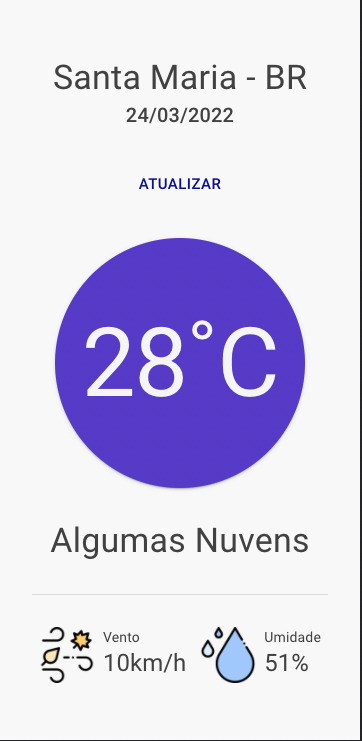
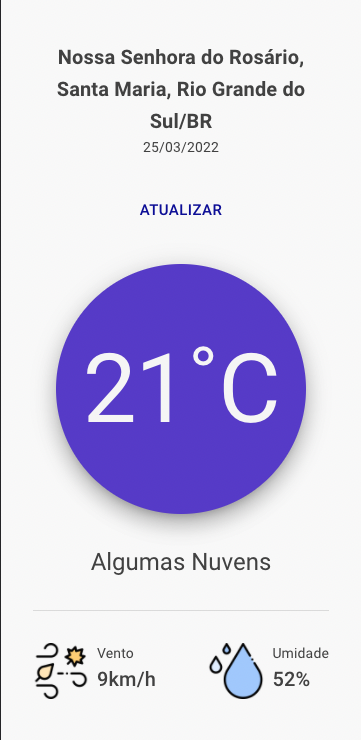
feat: update method getting data

diff --git a/src/pages/Home/Home.test.jsx b/src/pages/Home/Home.test.jsx
@@ -1,19 +1,19 @@
 import {QueryClient, QueryClientProvider} from 'react-query';
 
 import {screen, render, waitFor} from '@testing-library/react';
-import {useFetchWeather} from 'shared/hooks';
+import {useFetchData} from 'shared/hooks';
 import {convertFahrenheitToCelsius} from 'shared/utils/convertFahrenheitToCelsius';
 import {convertMilesToKilometers} from 'shared/utils/convertMilesToKilometers';
 
 import Home from '.';
 
 jest.mock('shared/hooks', () => ({
-  useFetchWeather: jest.fn(),
+  useFetchData: jest.fn(),
 }));
 
 describe('Home', () => {
   beforeEach(() => {
-    useFetchWeather.mockImplementation(() => ({}));
+    useFetchData.mockImplementation(() => ({}));
   });
 
   describe('while loading', () => {
@@ -35,7 +35,7 @@ describe('Home', () => {
 
       global.navigator.geolocation = mockGeolocation;
 
-      useFetchWeather.mockImplementation(() => ({
+      useFetchData.mockImplementation(() => ({
         isLoading: true,
       }));
 
@@ -74,7 +74,7 @@ describe('Home', () => {
 
       global.navigator.geolocation = mockGeolocation;
 
-      useFetchWeather.mockImplementation(() => ({
+      useFetchData.mockImplementation(() => ({
         isLoading: false,
         isError: true,
         error: {message: 'Erro ao carregar dados da API'},
@@ -113,23 +113,29 @@ describe('Home', () => {
 
       global.navigator.geolocation = mockGeolocation;
 
-      useFetchWeather.mockImplementation(() => ({
+      useFetchData.mockImplementation(() => ({
         isLoading: false,
         data: {
-          weather: [
-            {
-              description: 'algumas nuvens',
+          address: {
+            locality: 'Nossa Senhora do Rosário, Santa Maria',
+            principalSubdivision: 'Rio Grande do Sul',
+          },
+          weather: {
+            weather: [
+              {
+                description: 'algumas nuvens',
+              },
+            ],
+            main: {
+              temp: 292.84,
+              humidity: 52,
             },
-          ],
-          main: {
-            temp: 292.84,
-            humidity: 52,
+            wind: {speed: 6.69},
+            sys: {
+              country: 'BR',
+            },
+            name: 'Santa Maria',
           },
-          wind: {speed: 6.69},
-          sys: {
-            country: 'BR',
-          },
-          name: 'Santa Maria',
         },
       }));
 
@@ -140,7 +146,9 @@ describe('Home', () => {
       );
 
       await waitFor(() => {
-        expect(container.innerHTML).toMatch('Santa Maria - BR');
+        expect(container.innerHTML).toMatch(
+          'Nossa Senhora do Rosário, Santa Maria, Rio Grande do Sul/BR',
+        );
         expect(container.innerHTML).toMatch('algumas nuvens');
         expect(container.innerHTML).toMatch(convertMilesToKilometers(6.69));
         expect(container.innerHTML).toMatch(convertFahrenheitToCelsius(292.84));

diff --git a/src/pages/Home/index.tsx b/src/pages/Home/index.tsx
@@ -3,7 +3,7 @@ import {useQueryClient} from 'react-query';
 
 import {Button, Divider, Fade, Grid, Stack} from '@mui/material';
 import {ErrorPage, LinearDeterminate} from 'shared/components';
-import {useFetchWeather} from 'shared/hooks';
+import {useFetchData} from 'shared/hooks';
 
 import {
   DegreesComponent,
@@ -25,7 +25,7 @@ const Home: React.FC = () => {
     }
   }, [position.lat, position.lon]);
 
-  const {data, isLoading, isError, error} = useFetchWeather(
+  const {data, isLoading, isError, error} = useFetchData(
     position.lat,
     position.lon,
   );
@@ -45,7 +45,11 @@ const Home: React.FC = () => {
   return (
     <Fade in={!isLoading}>
       <Grid container spacing={4}>
-        <TitleComponent name={data?.name} country={data?.sys.country} />
+        <TitleComponent
+          locality={data?.address?.locality}
+          state={data?.address?.principalSubdivision}
+          country={data?.weather?.sys?.country}
+        />
 
         <Grid item xs={12}>
           <Stack justifyContent="center" alignItems="center">
@@ -58,17 +62,19 @@ const Home: React.FC = () => {
           </Stack>
         </Grid>
 
-        <DegreesComponent temp={data?.main.temp} />
+        <DegreesComponent temp={data?.weather?.main.temp} />
 
-        <DescriptionComponent description={data?.weather[0].description} />
+        <DescriptionComponent
+          description={data?.weather?.weather[0].description}
+        />
 
         <Grid item xs={12}>
           <Divider />
         </Grid>
 
         <InfoComponent
-          speed={data?.wind.speed}
-          humidity={data?.main.humidity}
+          speed={data?.weather?.wind.speed}
+          humidity={data?.weather?.main.humidity}
         />
       </Grid>
     </Fade>

diff --git a/src/pages/Home/components/InfoComponent/index.tsx b/src/pages/Home/components/InfoComponent/index.tsx
@@ -1,6 +1,6 @@
 import React from 'react';
 
-import {Grid, Box, Stack, Typography} from '@mui/material';
+import {Grid, Box, Stack, Typography, useMediaQuery} from '@mui/material';
 import {outono, solta} from 'shared/assets';
 import {convertMilesToKilometers} from 'shared/utils/convertMilesToKilometers';
 
@@ -10,14 +10,18 @@ interface IProps {
 }
 
 export const InfoComponent: React.FC<IProps> = ({speed, humidity}) => {
+  const matches = useMediaQuery('(min-width:600px)');
+
   return (
     <Grid item xs={12}>
-      <Box display="flex" justifyContent="space-around">
+      <Box
+        display="flex"
+        justifyContent={matches ? 'space-around' : 'space-between'}>
         <Box display="flex" gap={1}>
           <img src={outono} alt="" width="56px" />
           <Stack>
             <Typography variant="body2">Vento</Typography>
-            <Typography variant="h5">
+            <Typography variant={matches ? 'h4' : 'h6'}>
               {convertMilesToKilometers(speed)}km/h
             </Typography>
           </Stack>
@@ -27,7 +31,7 @@ export const InfoComponent: React.FC<IProps> = ({speed, humidity}) => {
           <img src={solta} alt="" width="56px" />
           <Stack>
             <Typography variant="body2">Umidade</Typography>
-            <Typography variant="h5">{humidity}%</Typography>
+            <Typography variant={matches ? 'h4' : 'h6'}>{humidity}%</Typography>
           </Stack>
         </Box>
       </Box>

diff --git a/src/pages/Home/components/TitleComponent/index.tsx b/src/pages/Home/components/TitleComponent/index.tsx
@@ -1,19 +1,30 @@
 import React from 'react';
 
-import {Grid, Typography} from '@mui/material';
+import {Grid, Typography, useMediaQuery} from '@mui/material';
 
 interface IProps {
-  name?: string;
+  locality?: string;
+  state?: string;
   country?: string;
 }
 
-export const TitleComponent: React.FC<IProps> = ({name, country}) => {
+export const TitleComponent: React.FC<IProps> = ({
+  locality,
+  state,
+  country,
+}) => {
+  const matches = useMediaQuery('(min-width:600px)');
+
   return (
     <Grid item xs={12}>
-      <Typography variant="h4" align="center">
-        {name} - {country}
+      <Typography
+        variant={matches ? 'h4' : 'h6'}
+        fontWeight={600}
+        align="center">
+        {locality}, {state}/{country}
       </Typography>
-      <Typography variant="h6" align="center">
+
+      <Typography variant={matches ? 'h6' : 'body2'} align="center">
         {new Date().toLocaleDateString()}
       </Typography>
     </Grid>

diff --git a/src/shared/services/api/addressService.ts b/src/shared/services/api/addressService.ts
@@ -1,0 +1,27 @@
+import {apiBigDataCloud} from '../axiosConfig';
+
+export interface IAddress {
+  locality: string;
+  principalSubdivision: string;
+}
+
+const getAddress = async (
+  lat: number,
+  lon: number,
+): Promise<IAddress | null> => {
+  try {
+    if (lat && lon) {
+      const {data: response} = await apiBigDataCloud.get<IAddress>(
+        `reverse-geocode-client?latitude=${lat}&longitude=${lon}&localityLanguage=pt_br`,
+      );
+
+      return response;
+    } else {
+      return null;
+    }
+  } catch (error) {
+    throw new Error('Erro ao carregar dados da API');
+  }
+};
+
+export const addressService = {getAddress};

diff --git a/src/pages/Home/components/DescriptionComponent/index.tsx b/src/pages/Home/components/DescriptionComponent/index.tsx
@@ -1,15 +1,20 @@
 import React from 'react';
 
-import {Grid, Typography} from '@mui/material';
+import {Grid, Typography, useMediaQuery} from '@mui/material';
 
 interface IProps {
   description?: string;
 }
 
 export const DescriptionComponent: React.FC<IProps> = ({description}) => {
+  const matches = useMediaQuery('(min-width:600px)');
+
   return (
     <Grid item xs={12}>
-      <Typography variant="h4" align="center" textTransform="capitalize">
+      <Typography
+        variant={matches ? 'h4' : 'h5'}
+        align="center"
+        textTransform="capitalize">
         {description}
       </Typography>
     </Grid>

diff --git a/src/shared/hooks/useFetchData.ts b/src/shared/hooks/useFetchData.ts
@@ -1,0 +1,18 @@
+import {useQuery} from 'react-query';
+
+import {addressService} from 'shared/services/api/addressService';
+import {weatherService} from 'shared/services/api/weatherService';
+
+export const useFetchData = (lat: number, lon: number) => {
+  const {data, error, isLoading, isError} = useQuery(
+    ['weather', lat, lon],
+    async () => {
+      const resWeather = await weatherService.getWeatherData(lat, lon);
+      const resAddress = await addressService.getAddress(lat, lon);
+
+      return {address: resAddress, weather: resWeather};
+    },
+  );
+
+  return {data, error, isLoading, isError};
+};

diff --git a/src/pages/Home/components/TitleComponent/TitleComponent.test.tsx b/src/pages/Home/components/TitleComponent/TitleComponent.test.tsx
@@ -5,9 +5,15 @@ import {TitleComponent} from '.';
 describe('TitleComponent', () => {
   it('should render correctly', () => {
     const {container} = render(
-      <TitleComponent name="São Paulo" country="BR" />,
+      <TitleComponent
+        locality="Nossa Senhora do Rosário, Santa Maria"
+        state="Rio Grande do Sul"
+        country="BR"
+      />,
     );
 
-    expect(container).toMatchSnapshot();
+    expect(container.innerHTML).toMatch(
+      'Nossa Senhora do Rosário, Santa Maria, Rio Grande do Sul/BR',
+    );
   });
 });

diff --git a/src/pages/Home/components/InfoComponent/InfoComponent.test.tsx b/src/pages/Home/components/InfoComponent/InfoComponent.test.tsx
@@ -1,4 +1,5 @@
 import {render} from '@testing-library/react';
+import {convertMilesToKilometers} from 'shared/utils/convertMilesToKilometers';
 
 import {InfoComponent} from '.';
 
@@ -6,6 +7,6 @@ describe('InfoComponent', () => {
   it('should render correctly', () => {
     const {container} = render(<InfoComponent speed={12} humidity={50} />);
 
-    expect(container).toMatchSnapshot();
+    expect(container.innerHTML).toMatch(convertMilesToKilometers(12));
   });
 });

diff --git a/src/shared/services/axiosConfig/index.ts b/src/shared/services/axiosConfig/index.ts
@@ -3,3 +3,7 @@ import Axios from 'axios';
 export const apiWeather = Axios.create({
   baseURL: 'https://api.openweathermap.org/data/2.5',
 });
+
+export const apiBigDataCloud = Axios.create({
+  baseURL: 'https://api.bigdatacloud.net/data',
+});

diff --git a/src/pages/Home/components/DescriptionComponent/DescriptionComponent.test.tsx b/src/pages/Home/components/DescriptionComponent/DescriptionComponent.test.tsx
@@ -8,6 +8,6 @@ describe('DescriptionComponent', () => {
       <DescriptionComponent description="Nuvens Dispersas" />,
     );
 
-    expect(container).toMatchSnapshot();
+    expect(container.innerHTML).toMatch('Nuvens Dispersas');
   });
 });

diff --git a/src/shared/hooks/index.ts b/src/shared/hooks/index.ts
@@ -1,1 +1,1 @@
-export * from './useFetchWeather';
+export * from './useFetchData';
